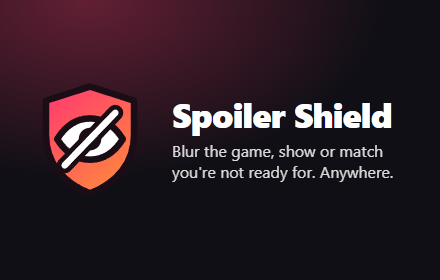
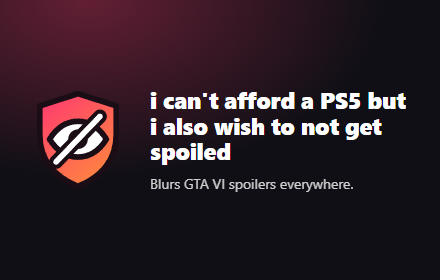
Rename to "no spoilers", tidy manifest, refresh store assets

Changed region(s): [[0.325, 0.3143, 0.9455, 0.6], [0.0886, 0.2857, 0.2955, 0.6857], [0.325, 0.6, 0.8864, 0.6857]]

diff --git a/tools/build.js b/tools/build.js
@@ -1,6 +1,6 @@
 // npm run package -> two store-ready zips in dist/:
-//   spoiler-shield-chrome-<v>.zip   Chrome Web Store (also Brave/Edge/Opera/Vivaldi, Kiwi-style android)
-//   spoiler-shield-firefox-<v>.zip  addons.mozilla.org (desktop + android)
+//   <name>-chrome-<v>.zip   Chrome Web Store (also Brave/Edge/Opera/Vivaldi, Kiwi-style android)
+//   <name>-firefox-<v>.zip  addons.mozilla.org (desktop + android)
 // same code in both, only the manifest differs. the dev manifest has BOTH background styles so the
 // folder loads unpacked anywhere, but the stores whine about the key meant for the other browser
 const fs = require('node:fs');
@@ -10,6 +10,7 @@ const { execFileSync } = require('node:child_process');
 const ROOT = path.join(__dirname, '..');
 const DIST = path.join(ROOT, 'dist');
 const SHIP = ['manifest.json', 'UNLICENSE', 'src', 'packs', 'icons'];
+const STORE_NAME = 'no spoil gta 6 pls'; // what both stores show. the full name lives in the UI + README
 const SKIP = new Set(['icon-256.png', 'icon.svg']); // source art, not needed at runtime
 
 function copy(from, to) {
@@ -24,11 +25,16 @@ const base = JSON.parse(fs.readFileSync(path.join(ROOT, 'manifest.json'), 'utf8'
 const targets = {
   chrome(m) {
     m.background = { service_worker: m.background.service_worker };
+    m.name = STORE_NAME;
+    m.action.default_title = STORE_NAME;
     delete m.browser_specific_settings;
     return m;
   },
   firefox(m) {
     m.background = { scripts: m.background.scripts };
+    // firefox caps names at 45 chars (the full name is 55), so the stores get the short one
+    m.name = STORE_NAME;
+    m.action.default_title = STORE_NAME;
     return m;
   },
 };
@@ -41,7 +47,7 @@ for (const [name, tweak] of Object.entries(targets)) {
   for (const f of SHIP) copy(path.join(ROOT, f), path.join(dir, f));
   const m = tweak(JSON.parse(JSON.stringify(base)));
   fs.writeFileSync(path.join(dir, 'manifest.json'), JSON.stringify(m, null, 2) + '\n');
-  const file = `spoiler-shield-${name}-${base.version}.zip`;
+  const file = `${require('../package.json').name}-${name}-${base.version}.zip`;
   execFileSync(process.execPath, [path.join(ROOT, 'node_modules', 'web-ext', 'bin', 'web-ext.js'), 'build', '--source-dir', dir, '--artifacts-dir', DIST, '--filename', file, '--overwrite-dest'], { stdio: 'ignore' });
   console.log('built dist/' + file);
 }

diff --git a/src/background.js b/src/background.js
@@ -22,7 +22,7 @@ if (typeof importScripts === 'function' && !(globalThis.SpoilerShield && globalT
         const p = await (await fetch(api.runtime.getURL('packs/' + file))).json();
         if (p && p.id) packs[p.id] = p;
       } catch (e) {
-        console.warn('[spoiler shield] couldn\'t load pack', file, e); // a broken json shouldn't take the others down
+        console.warn('[no spoilers] couldn\'t load pack', file, e); // a broken json shouldn't take the others down
       }
     }
     const version = api.runtime.getManifest().version;
@@ -111,7 +111,7 @@ if (typeof importScripts === 'function' && !(globalThis.SpoilerShield && globalT
       const key = p.id + '@' + p.expires;
       if (reminded[key] === today) continue;
       if (left !== null && left <= 0 && left > -2) {
-        notify('ss-expired-' + p.id, `${p.name} blocking is off now`, `You set it to switch off on ${p.expires}. Enjoy! (Change the date in Spoiler Shield settings if that was a mistake.)`);
+        notify('ss-expired-' + p.id, `${p.name} blocking is off now`, `You set it to switch off on ${p.expires}. Enjoy! (Change the date in the extension settings if that was a mistake.)`);
         reminded[key] = today;
         changed = true;
       } else if (SS.packs.expiringSoon(p) !== null) {

diff --git a/src/options/options.html b/src/options/options.html
@@ -3,7 +3,7 @@
   <head>
     <meta charset="utf-8" />
     <meta name="viewport" content="width=device-width, initial-scale=1" />
-    <title>Spoiler Shield settings</title>
+    <title>settings · i can't afford a PS5 but i also wish to not get spoiled</title>
     <link rel="stylesheet" href="../ui/base.css" />
     <link rel="stylesheet" href="options.css" />
   </head>
@@ -12,7 +12,7 @@
       <header class="head">
         <img src="../../icons/icon-48.png" alt="" width="40" height="40" />
         <div class="head-text">
-          <h1>Spoiler Shield</h1>
+          <h1>i can't afford a PS5 but i also wish to not get spoiled</h1>
           <p class="muted">Blurs the stuff you're not ready for. Runs entirely in your browser: no servers, no tracking, no phoning home.</p>
         </div>
         <span id="lockstate" class="pill" hidden>locked</span>
@@ -200,7 +200,7 @@
       </section>
 
       <footer class="foot muted">
-        Spoiler Shield · made because of the Endgame Incident · <span id="version"></span>
+        made because of the Endgame Incident · <span id="version"></span>
       </footer>
     </div>
 

diff --git a/src/lib/edit.js b/src/lib/edit.js
@@ -92,7 +92,7 @@
 
   function exportAll(state) {
     return JSON.stringify(
-      { exportedFrom: 'Spoiler Shield', exportedAt: new Date().toISOString(), settings: state.settings, packState: state.packState },
+      { exportedFrom: "i can't afford a PS5 but i also wish to not get spoiled", exportedAt: new Date().toISOString(), settings: state.settings, packState: state.packState },
       null,
       2,
     );
@@ -100,7 +100,7 @@
 
   async function importAll(json) {
     const obj = JSON.parse(json);
-    if (!obj || typeof obj !== 'object' || !obj.packState || !obj.settings) throw new Error("that's not a Spoiler Shield backup");
+    if (!obj || typeof obj !== 'object' || !obj.packState || !obj.settings) throw new Error("that's not a backup from this extension");
     const ps = obj.packState;
     const clean = { diffs: {}, custom: {}, order: Array.isArray(ps.order) ? ps.order.filter((x) => typeof x === 'string') : [] };
     for (const [id, d] of Object.entries(ps.diffs || {})) if (d && typeof d === 'object') clean.diffs[id] = d;

diff --git a/tests/fixtures/twitch-browse.html b/tests/fixtures/twitch-browse.html
@@ -15,7 +15,7 @@
     </style>
   </head>
   <body>
-    <div style="position:fixed;bottom:0;left:0;right:0;z-index:5;background:#ffd400;color:#000;font:600 12px sans-serif;padding:4px 10px">Spoiler Shield test page. Every title here is made up, nothing about the real game.</div>
+    <div style="position:fixed;bottom:0;left:0;right:0;z-index:5;background:#ffd400;color:#000;font:600 12px sans-serif;padding:4px 10px">Spoiler blocker test page. Every title here is made up, nothing about the real game.</div>
     <nav data-a-target="side-nav-bar">
       <div class="side-nav-card" data-test="spoiler"><a href="/somegtaguy"><p data-a-target="side-nav-title" title="SomeGtaGuy">SomeGtaGuy</p><p data-a-target="side-nav-game-title">Grand Theft Auto VI</p><span class="tw-channel-status-indicator"></span></a></div>
       <div class="side-nav-card" data-test="clean"><a href="/chatter"><p data-a-target="side-nav-title" title="Chatter">Chatter</p><p data-a-target="side-nav-game-title">Just Chatting</p></a></div>

diff --git a/src/content/shield.js b/src/content/shield.js
@@ -181,7 +181,7 @@
     const wrap = document.createElement('div');
     wrap.className = 'wrap';
     wrap.setAttribute('role', 'note');
-    wrap.setAttribute('aria-label', 'Hidden by Spoiler Shield');
+    wrap.setAttribute('aria-label', 'Hidden by the spoiler blocker');
     wrap.appendChild(buildLines(opts.lines));
     if (opts.why) {
       const why = document.createElement('div');
@@ -261,7 +261,7 @@
     const badge = document.createElement('div');
     badge.className = 'badge';
     badge.innerHTML = '<span class="dot"></span><span class="t"></span>';
-    badge.querySelector('.t').textContent = opts.badge || 'Spoiler Shield';
+    badge.querySelector('.t').textContent = opts.badge || 'no spoilers';
     card.append(badge, buildLines(opts.lines));
     if (opts.why) {
       const why = document.createElement('div');

diff --git a/src/popup/popup.html b/src/popup/popup.html
@@ -3,14 +3,14 @@
   <head>
     <meta charset="utf-8" />
     <meta name="viewport" content="width=device-width, initial-scale=1" />
-    <title>Spoiler Shield</title>
+    <title>i can't afford a PS5 but i also wish to not get spoiled</title>
     <link rel="stylesheet" href="../ui/base.css" />
     <link rel="stylesheet" href="popup.css" />
   </head>
   <body>
     <header class="top">
       <img src="../../icons/icon-32.png" alt="" width="24" height="24" />
-      <h1>Spoiler Shield</h1>
+      <h1>i can't afford a PS5 but i also wish to not get spoiled</h1>
       <label class="switch" title="Turn everything on/off">
         <input type="checkbox" id="enabled" />
         <span class="track"></span>

diff --git a/tests/fixtures/x-home.html b/tests/fixtures/x-home.html
@@ -14,7 +14,7 @@
     </style>
   </head>
   <body>
-    <div style="position:fixed;bottom:0;left:0;right:0;z-index:5;background:#ffd400;color:#000;font:600 12px sans-serif;padding:4px 10px">Spoiler Shield test page. Every title here is made up, nothing about the real game.</div>
+    <div style="position:fixed;bottom:0;left:0;right:0;z-index:5;background:#ffd400;color:#000;font:600 12px sans-serif;padding:4px 10px">Spoiler blocker test page. Every title here is made up, nothing about the real game.</div>
     <main>
       <section id="timeline" aria-label="Timeline: Your Home Timeline">
         <div data-testid="cellInnerDiv"><article data-testid="tweet" data-test="spoiler">

diff --git a/tests/fixtures/youtube-home.html b/tests/fixtures/youtube-home.html
@@ -18,7 +18,7 @@
     </style>
   </head>
   <body>
-    <div style="position:fixed;bottom:0;left:0;right:0;z-index:5;background:#ffd400;color:#000;font:600 12px sans-serif;padding:4px 10px">Spoiler Shield test page. Every title here is made up, nothing about the real game.</div>
+    <div style="position:fixed;bottom:0;left:0;right:0;z-index:5;background:#ffd400;color:#000;font:600 12px sans-serif;padding:4px 10px">Spoiler blocker test page. Every title here is made up, nothing about the real game.</div>
     <ytd-app>
       <ytd-masthead><a href="/">YouTube</a></ytd-masthead>
       <ytd-page-manager>

diff --git a/tests/fixtures/twitch-channel.html b/tests/fixtures/twitch-channel.html
@@ -12,7 +12,7 @@
     </style>
   </head>
   <body>
-    <div style="position:fixed;bottom:0;left:0;right:0;z-index:5;background:#ffd400;color:#000;font:600 12px sans-serif;padding:4px 10px">Spoiler Shield test page. Every title here is made up, nothing about the real game.</div>
+    <div style="position:fixed;bottom:0;left:0;right:0;z-index:5;background:#ffd400;color:#000;font:600 12px sans-serif;padding:4px 10px">Spoiler blocker test page. Every title here is made up, nothing about the real game.</div>
     <div id="root">
       <div class="channel-root">
         <video id="v" playsinline></video>

diff --git a/tests/fixtures/youtube-chat.html b/tests/fixtures/youtube-chat.html
@@ -10,7 +10,7 @@
     </style>
   </head>
   <body>
-    <div style="position:fixed;bottom:0;left:0;right:0;z-index:5;background:#ffd400;color:#000;font:600 12px sans-serif;padding:4px 10px">Spoiler Shield test page. Every title here is made up, nothing about the real game.</div>
+    <div style="position:fixed;bottom:0;left:0;right:0;z-index:5;background:#ffd400;color:#000;font:600 12px sans-serif;padding:4px 10px">Spoiler blocker test page. Every title here is made up, nothing about the real game.</div>
     <yt-live-chat-app>
       <yt-live-chat-item-list-renderer>
         <div id="items">

diff --git a/tests/fixtures/youtube-watch.html b/tests/fixtures/youtube-watch.html
@@ -15,7 +15,7 @@
     </style>
   </head>
   <body>
-    <div style="position:fixed;bottom:0;left:0;right:0;z-index:5;background:#ffd400;color:#000;font:600 12px sans-serif;padding:4px 10px">Spoiler Shield test page. Every title here is made up, nothing about the real game.</div>
+    <div style="position:fixed;bottom:0;left:0;right:0;z-index:5;background:#ffd400;color:#000;font:600 12px sans-serif;padding:4px 10px">Spoiler blocker test page. Every title here is made up, nothing about the real game.</div>
     <ytd-app>
       <ytd-page-manager>
         <ytd-watch-flexy role="main">
